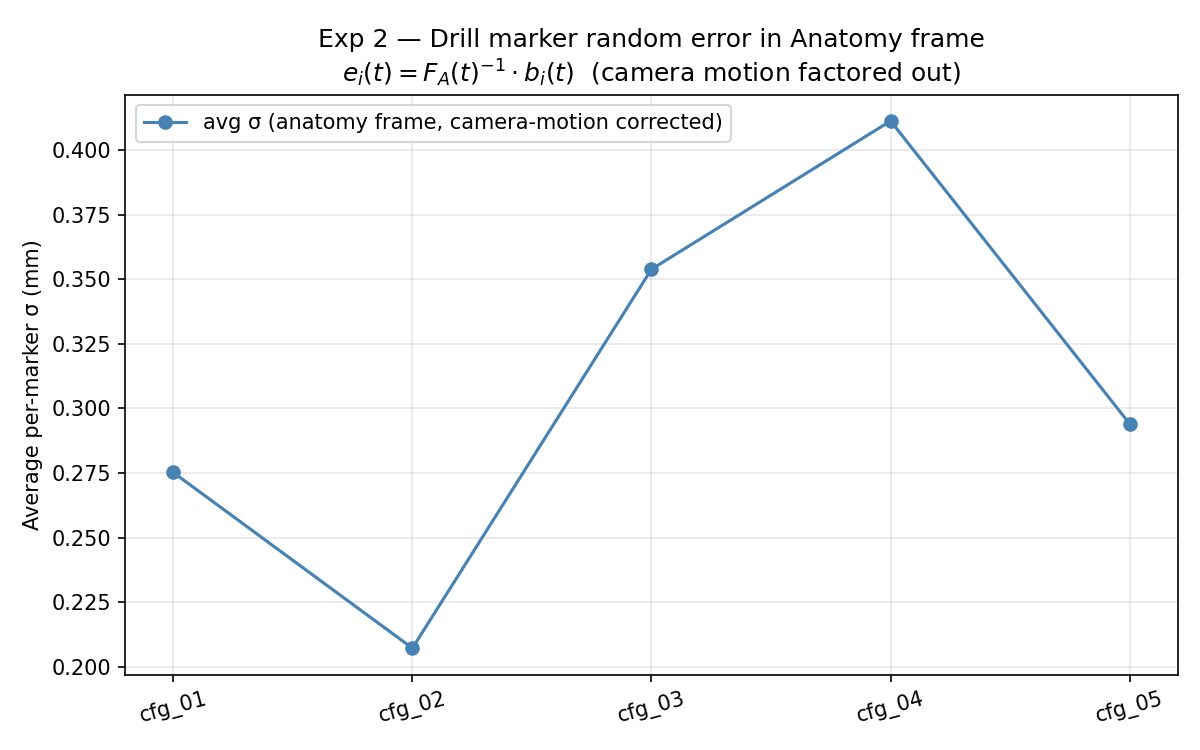
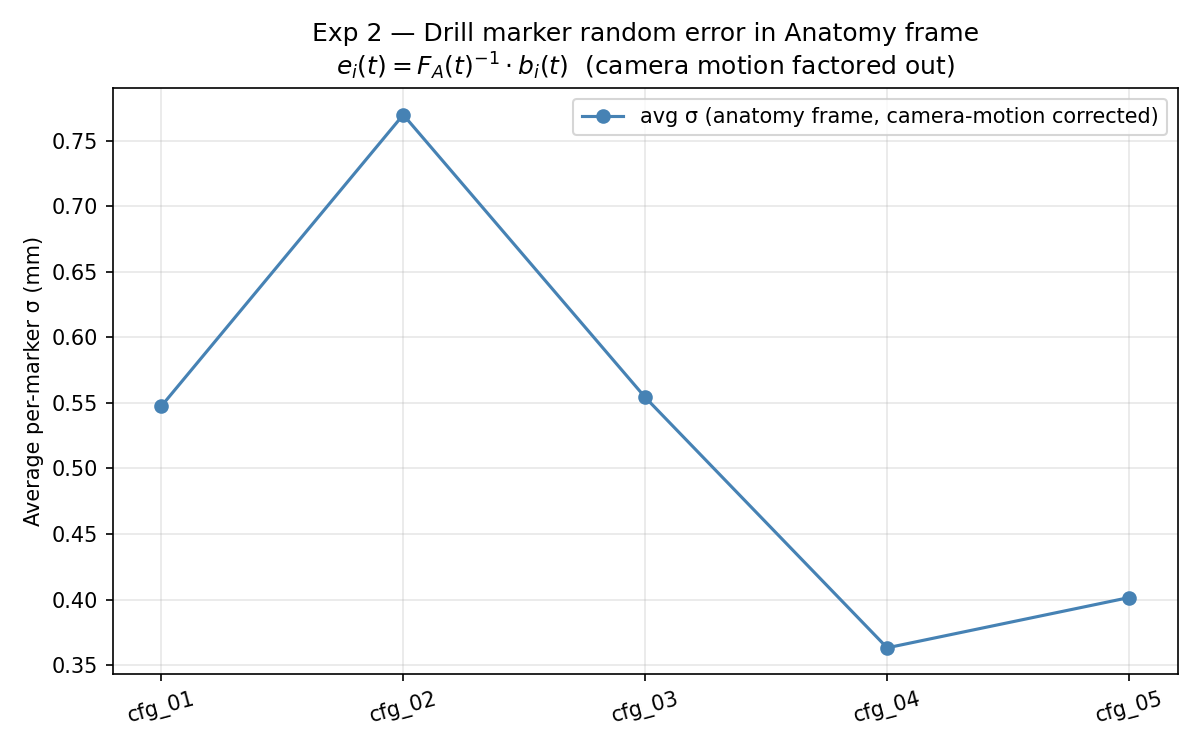
data analysis for experiments with each marker's position done.

diff --git a/experiment/exp2_both_move/analyze_marker_covariances.py b/experiment/exp2_both_move/analyze_marker_covariances.py
@@ -1,0 +1,214 @@
+# Author: X.M. Christine Zhu
+
+"""
+Experiment 2 — Per-marker 3×3 covariance from raw tracker measurements.
+
+Within each configuration, both bodies are held STILL. The variation across
+N samples is pure random noise:
+
+    C_k = cov(p_k(1), ..., p_k(N))     shape (3, 3), metres²
+
+Key questions:
+  1. What is σ_ball per marker at each configuration?  (scalar, mm)
+  2. Is the noise isotropic?     (λ_min / λ_max close to 1)
+  3. Is C_ball consistent across all configurations?
+  4. How does it compare to the C_ball estimated in exp1?
+
+Produces
+--------
+  results/marker_covariance_report.txt
+  results/fig_sigma_ball_by_config.png
+  results/fig_marker_isotropy.png
+"""
+
+import sys
+import json
+import pathlib
+import numpy as np
+import matplotlib.pyplot as plt
+
+_HERE = pathlib.Path(__file__).resolve().parent
+_EXP  = _HERE.parent
+sys.path.insert(0, str(_EXP))
+
+from utils.marker_io import load_marker_csv
+
+DATA_DIR    = _HERE / "data"
+RESULTS_DIR = _HERE / "results"
+SHARED_CAL  = _EXP / "shared_cal"
+
+
+def marker_covariance_stats(markers: np.ndarray) -> list:
+    """
+    Per-marker 3×3 covariance and eigendecomposition.
+
+    Parameters
+    ----------
+    markers : ndarray, shape (N, n_markers, 3)   units: metres
+
+    Returns
+    -------
+    list of dict (one per marker):
+        mean        : (3,)   mean position in tracker frame, metres
+        C           : (3,3)  empirical covariance, metres²
+        sigma_mm    : float  sqrt(trace(C)/3) * 1000
+        eigvals_mm2 : (3,)   eigenvalues in mm² (ascending)
+        eigvecs     : (3,3)  corresponding eigenvectors (columns)
+        isotropy    : float  λ_min / λ_max   (1.0 = perfectly isotropic)
+    """
+    out = []
+    for k in range(markers.shape[1]):
+        pts = markers[:, k, :]
+        mean = pts.mean(axis=0)
+        C    = np.cov(pts, rowvar=False)
+        sigma_mm = float(np.sqrt(np.trace(C) / 3.0) * 1000.0)
+        eigvals, eigvecs = np.linalg.eigh(C)
+        eigvals = np.maximum(eigvals, 0.0)
+        isotropy = float(eigvals[0] / eigvals[2]) if eigvals[2] > 1e-30 else 0.0
+        out.append({
+            "mean":        mean,
+            "C":           C,
+            "sigma_mm":    sigma_mm,
+            "eigvals_mm2": eigvals * 1e6,
+            "eigvecs":     eigvecs,
+            "isotropy":    isotropy,
+        })
+    return out
+
+
+def main():
+    RESULTS_DIR.mkdir(parents=True, exist_ok=True)
+
+    cfg_dirs = sorted(p for p in DATA_DIR.iterdir() if p.is_dir())
+
+    report_lines = ["config,body,marker,sigma_mm,lam1_mm2,lam2_mm2,lam3_mm2,isotropy"]
+    labels = []
+    sigA_per_cfg, sigB_per_cfg = [], []
+    isoA_per_cfg, isoB_per_cfg = [], []
+    all_C_A, all_C_B           = [], []
+
+    hdr = (f"\n{'Config':<10} {'Body':<8} {'Marker':>6} "
+           f"{'σ(mm)':>8} {'λ1(mm²)':>11} {'λ2(mm²)':>11} {'λ3(mm²)':>11} {'Isotropy':>10}")
+    print(hdr)
+    print("─" * 75)
+
+    for cfg_dir in cfg_dirs:
+        rawA = cfg_dir / "markersA_raw.csv"
+        rawB = cfg_dir / "markersB_raw.csv"
+        if not (rawA.exists() and rawB.exists()):
+            print(f"  {cfg_dir.name}: markersA/B_raw.csv missing — skipping")
+            continue
+
+        markers_A = load_marker_csv(rawA)   # (N, n_markers, 3) metres  — Anatomy
+        markers_B = load_marker_csv(rawB)   # (N, n_markers, 3) metres  — Drill
+
+        stats_A = marker_covariance_stats(markers_A)
+        stats_B = marker_covariance_stats(markers_B)
+
+        labels.append(cfg_dir.name)
+        sigA_per_cfg.append([s["sigma_mm"] for s in stats_A])
+        sigB_per_cfg.append([s["sigma_mm"] for s in stats_B])
+        isoA_per_cfg.append([s["isotropy"] for s in stats_A])
+        isoB_per_cfg.append([s["isotropy"] for s in stats_B])
+        all_C_A.extend([s["C"] for s in stats_A])
+        all_C_B.extend([s["C"] for s in stats_B])
+
+        for tag, stats in [("anatomy", stats_A), ("drill", stats_B)]:
+            for k, s in enumerate(stats):
+                lam = s["eigvals_mm2"]
+                print(f"{cfg_dir.name:<10} {tag:<8} {k:>6} "
+                      f"{s['sigma_mm']:>8.4f} {lam[0]:>11.5f} {lam[1]:>11.5f} {lam[2]:>11.5f} "
+                      f"{s['isotropy']:>10.4f}")
+                report_lines.append(
+                    f"{cfg_dir.name},{tag},m{k},"
+                    f"{s['sigma_mm']:.5f},{lam[0]:.6f},{lam[1]:.6f},{lam[2]:.6f},{s['isotropy']:.5f}"
+                )
+
+    (RESULTS_DIR / "marker_covariance_report.txt").write_text("\n".join(report_lines))
+    print(f"\nSaved → {RESULTS_DIR / 'marker_covariance_report.txt'}")
+
+    if not labels:
+        print("No raw marker data found. Run collect.py first.")
+        return
+
+    # ── Average C_ball ────────────────────────────────────────────────────────
+    C_ball_anatomy  = np.mean(all_C_A, axis=0)
+    C_ball_drill    = np.mean(all_C_B, axis=0)
+    C_ball_combined = 0.5 * (C_ball_anatomy + C_ball_drill)
+
+    sigma_anatomy_mm  = float(np.sqrt(np.trace(C_ball_anatomy)  / 3.0) * 1000.0)
+    sigma_drill_mm    = float(np.sqrt(np.trace(C_ball_drill)    / 3.0) * 1000.0)
+    sigma_combined_mm = float(np.sqrt(np.trace(C_ball_combined) / 3.0) * 1000.0)
+
+    print(f"\n── Average C_ball (anatomy, {len(all_C_A)} markers total) — (mm²) ──")
+    print(np.array2string(C_ball_anatomy * 1e6, precision=5, suppress_small=True))
+    print(f"   σ_ball = {sigma_anatomy_mm:.4f} mm")
+
+    print(f"\n── Average C_ball (drill,   {len(all_C_B)} markers total) — (mm²) ──")
+    print(np.array2string(C_ball_drill * 1e6, precision=5, suppress_small=True))
+    print(f"   σ_ball = {sigma_drill_mm:.4f} mm")
+
+    print(f"\n── Combined C_ball (average of both bodies) — (mm²) ──")
+    print(np.array2string(C_ball_combined * 1e6, precision=5, suppress_small=True))
+    print(f"   σ_ball = {sigma_combined_mm:.4f} mm")
+
+    # Load exp1 C_ball for cross-experiment comparison
+    exp1_json = SHARED_CAL / "C_ball.json"
+    if exp1_json.exists():
+        exp1_data = json.loads(exp1_json.read_text())
+        print(f"\n── Comparison with exp1 C_ball ──")
+        print(f"   exp1 σ_ball = {exp1_data['sigma_mm']:.4f} mm")
+        print(f"   exp2 σ_ball = {sigma_combined_mm:.4f} mm")
+
+    # ── Plot: σ_ball by configuration ────────────────────────────────────────
+    x         = np.arange(len(labels))
+    sigA_arr  = np.array(sigA_per_cfg)   # (n_cfg, n_markers)
+    sigB_arr  = np.array(sigB_per_cfg)
+    n_markers = sigA_arr.shape[1]
+
+    colors_A = ["steelblue",   "cornflowerblue", "royalblue",  "lightsteelblue"]
+    colors_B = ["tomato",      "salmon",         "indianred",  "lightcoral"]
+
+    fig, ax = plt.subplots(figsize=(9, 5))
+    for k in range(n_markers):
+        ax.plot(x, sigA_arr[:, k], "o-",  color=colors_A[k % 4], label=f"anatomy m{k}")
+        ax.plot(x, sigB_arr[:, k], "s--", color=colors_B[k % 4], label=f"drill   m{k}")
+    ax.axhline(sigma_combined_mm, color="black", linestyle=":", linewidth=1.5,
+               label=f"avg σ_ball = {sigma_combined_mm:.3f} mm")
+    ax.set_xticks(x)
+    ax.set_xticklabels(labels, rotation=15)
+    ax.set_ylabel("Per-marker σ (mm)")
+    ax.set_title("Raw marker noise σ_ball by configuration\n(each line = one fiducial)")
+    ax.legend(fontsize=8, ncol=2)
+    ax.grid(True, alpha=0.3)
+    fig.tight_layout()
+    out1 = RESULTS_DIR / "fig_sigma_ball_by_config.png"
+    fig.savefig(str(out1), dpi=150)
+    print(f"Saved → {out1}")
+
+    # ── Plot: isotropy check ──────────────────────────────────────────────────
+    isoA_arr = np.array(isoA_per_cfg)
+    isoB_arr = np.array(isoB_per_cfg)
+
+    fig2, ax2 = plt.subplots(figsize=(9, 4))
+    for k in range(n_markers):
+        ax2.plot(x, isoA_arr[:, k], "o-",  color=colors_A[k % 4], label=f"anatomy m{k}")
+        ax2.plot(x, isoB_arr[:, k], "s--", color=colors_B[k % 4], label=f"drill   m{k}")
+    ax2.axhline(1.0, color="black", linestyle=":", linewidth=1, label="perfect isotropy")
+    ax2.set_ylim(0, 1.1)
+    ax2.set_xticks(x)
+    ax2.set_xticklabels(labels, rotation=15)
+    ax2.set_ylabel("Isotropy  λ_min / λ_max  (1 = isotropic)")
+    ax2.set_title("Marker noise isotropy by configuration")
+    ax2.legend(fontsize=8, ncol=2)
+    ax2.grid(True, alpha=0.3)
+    fig2.tight_layout()
+    out2 = RESULTS_DIR / "fig_marker_isotropy.png"
+    fig2.savefig(str(out2), dpi=150)
+    print(f"Saved → {out2}")
+
+    plt.show()
+
+
+if __name__ == "__main__":
+    main()
